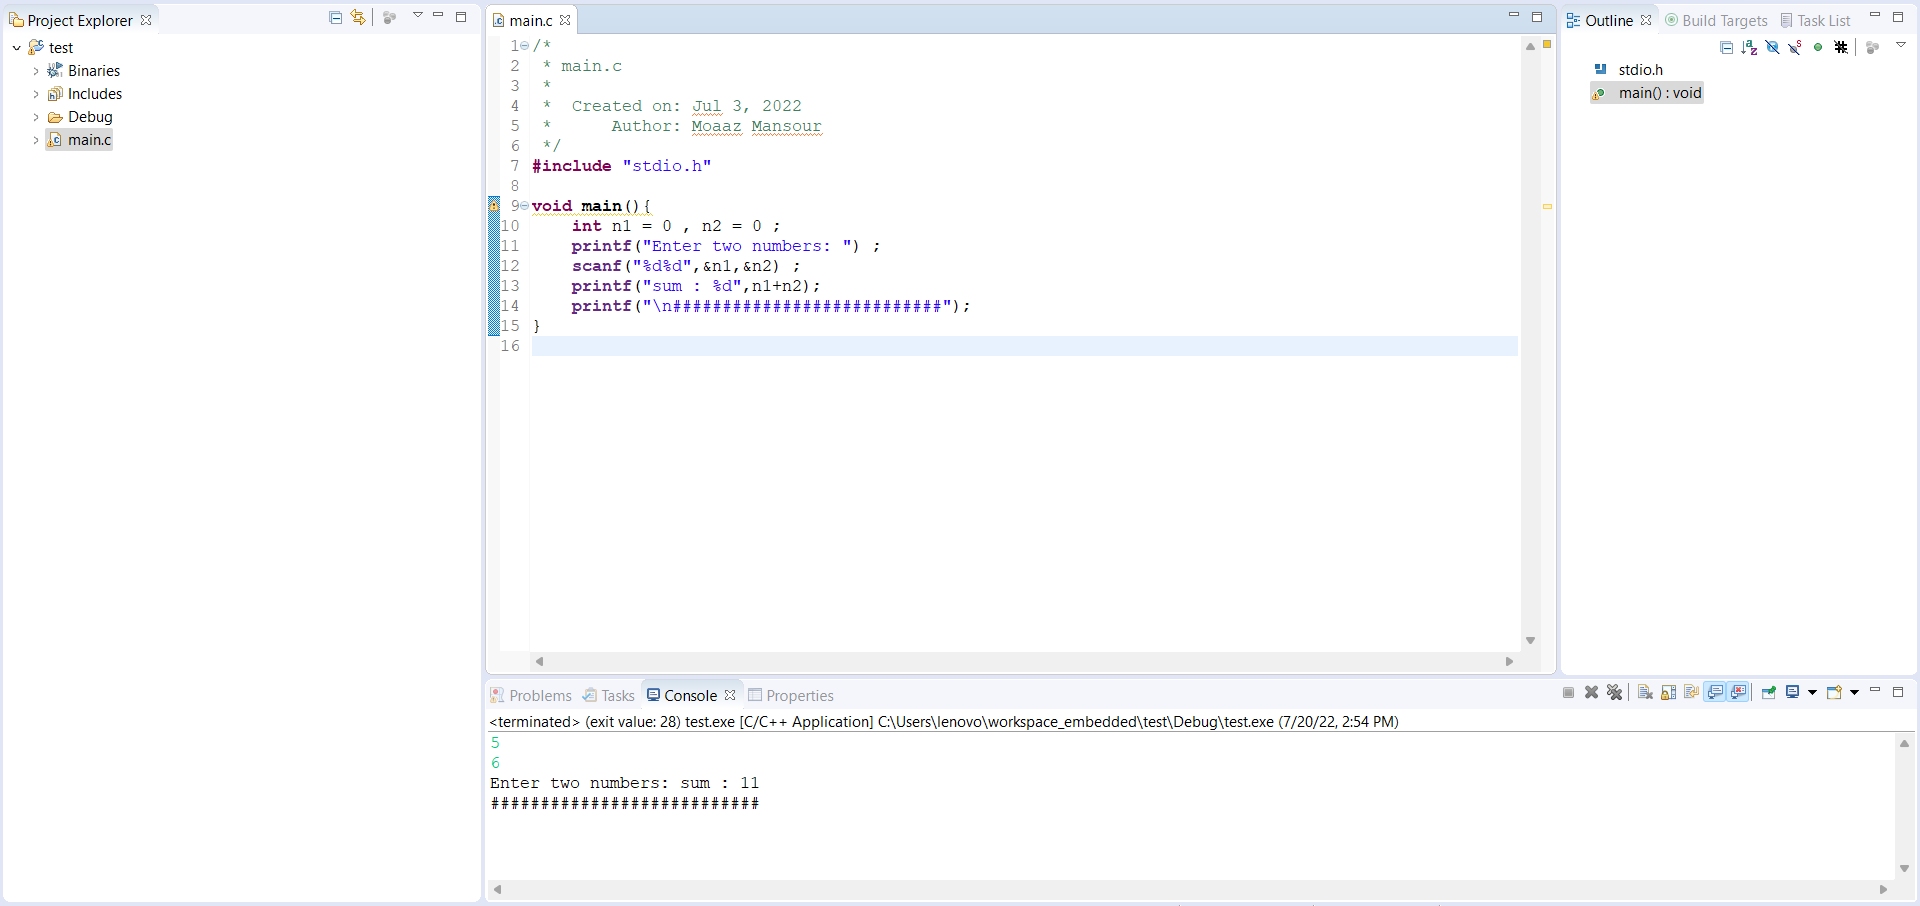
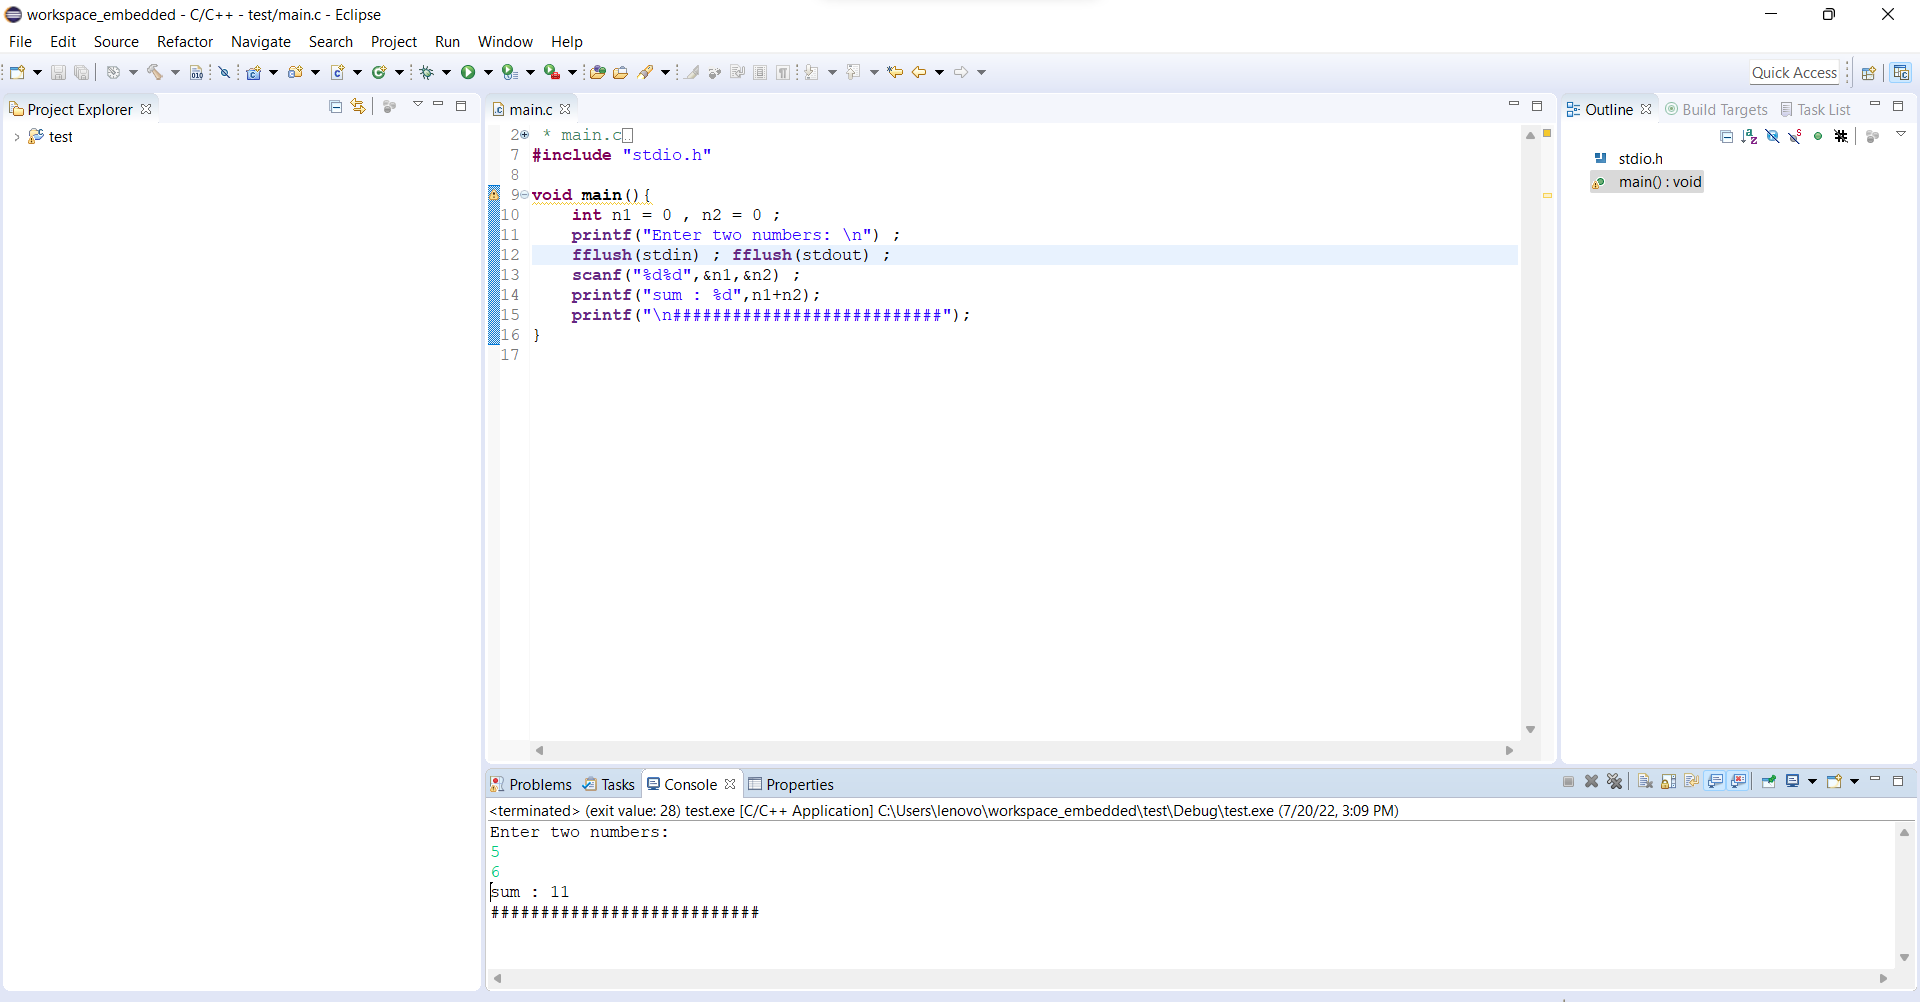
flushing output

diff --git a/C Programming/Lesson 3 C Basics/Part 1/EX 4/main.c b/C Programming/Lesson 3 C Basics/Part 1/EX 4/main.c
@@ -9,6 +9,7 @@
 void main(){
 	float n1 = 0 , n2 = 0 ;
 	printf("Enter two numbers: ") ;
+	fflush(stdin) ; fflush(stdout) ;
 	scanf("%f%f",&n1,&n2) ;
 	/*Long float because if the maximum number of 2 floats summed together or any similar case that will exceed the limit */
 	printf("Product : %lf",n1*n2);

diff --git a/C Programming/Lesson 3 C Basics/Part 1/EX 3/main.c b/C Programming/Lesson 3 C Basics/Part 1/EX 3/main.c
@@ -8,7 +8,8 @@
 
 void main(){
 	int n1 = 0 , n2 = 0 ;
-	printf("Enter two numbers: ") ;
+	printf("Enter two numbers: \n") ;
+	fflush(stdin) ; fflush(stdout) ;
 	scanf("%d%d",&n1,&n2) ;
 	printf("sum : %d",n1+n2);
 	printf("\n###########################");
